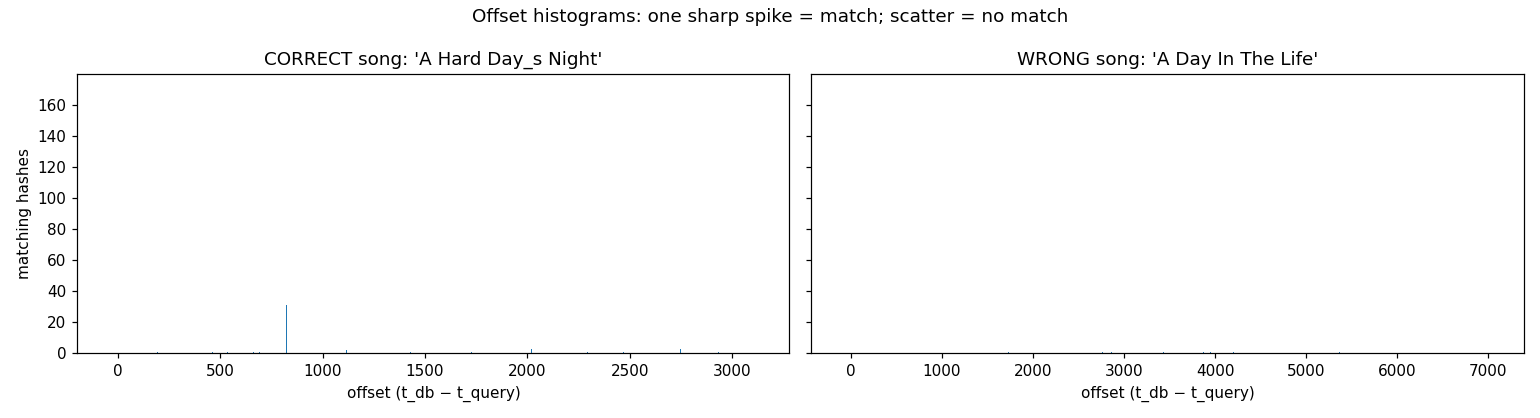
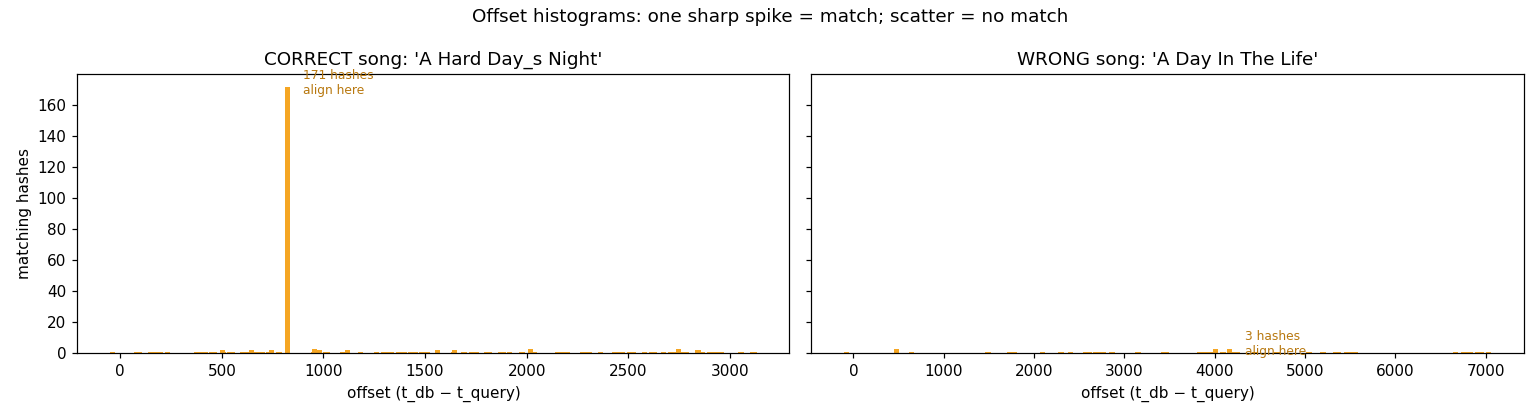
Fix notebook + web-app issues: clean Q2 find_onset cell, suppress Q3A tqdm warning, make offset-histogram alignment spike clearly visible

diff --git a/src/build_q2.py b/src/build_q2.py
@@ -204,19 +204,27 @@ Fix: an anti-alias low-pass filter (cutoff ~25 Hz) before downsampling; the
 unavoidable cost is losing genuine fine QRS diagnostic detail.
 
 ## (g) Prototyping the detector — `find_onset`  [1.5%]
-Implemented in `src/q2_ecg.py`; it steps **beat-by-beat** (stride = `len(template)`),
-scores each beat by normalized correlation, and returns the first index with
-$\rho<$ threshold (else $-1$).
+Implemented in `src/q2_ecg.py` and imported here. It steps **beat-by-beat**
+(stride = `len(template)` = 200), scores each beat by normalized correlation, and
+returns the start index of the first beat with $\rho<$ threshold, else $-1$:
+
+```python
+def find_onset(ecg_signal, template, threshold=0.5):
+    x, t = np.asarray(ecg_signal), np.asarray(template)
+    L = t.size
+    for m in range(0, x.size - L + 1, L):      # one stride per beat
+        if normalized_correlation(t, x[m:m + L]) < threshold:
+            return m
+    return -1
+```
 """))
 
 cells.append(code(r"""
-import inspect
-print(inspect.getsource(q2.find_onset))
-print("Result on the provided data:", q2.find_onset(ecg, template, 0.5),
-      "(threshold=0.5)  ->  arrhythmia begins at t =", q2.find_onset(ecg, template, 0.5)/fs, "s")
-print("Sanity: threshold above every score returns first beat; impossible threshold returns -1:")
-print("   find_onset(.., threshold=2.0) =", q2.find_onset(ecg, template, 2.0))
-print("   find_onset(.., threshold=-2.0) =", q2.find_onset(ecg, template, -2.0))
+onset = q2.find_onset(ecg, template, 0.5)
+print(f"find_onset(ecg, template, 0.5) = {onset}  ->  arrhythmia begins at t = {onset/fs:.2f} s (beat #{onset//L})")
+print("Sanity checks:")
+print("  threshold=2.0  (above every score) ->", q2.find_onset(ecg, template, 2.0), "(first beat)")
+print("  threshold=-2.0 (impossible)        ->", q2.find_onset(ecg, template, -2.0), "(never breached)")
 """))
 
 cells.append(md(r"""

diff --git a/app/web/server.py b/app/web/server.py
@@ -142,12 +142,21 @@ def render_constellation(t, f, Sdb, peaks):
 def render_histogram(offsets, best_offset):
     fig, ax = plt.subplots(figsize=(8.4, 3.0)); fig.patch.set_facecolor(BG); _style_ax(ax)
     if offsets:
-        ks = list(offsets.keys()); vs = list(offsets.values())
-        ax.bar(ks, vs, width=1.4, color=ORANGE)
-        ax.annotate(f"{offsets[best_offset]} hashes align",
-                    xy=(best_offset, offsets[best_offset]), color=ORANGE, fontsize=9,
-                    xytext=(10, -6), textcoords="offset points")
-    ax.set_xlabel("time offset (db frame - query frame)"); ax.set_ylabel("# hashes")
+        ks = np.array(list(offsets.keys()), dtype=float)
+        vs = np.array(list(offsets.values()), dtype=float)
+        # Offsets span thousands of frames; widen the bars (~range/140) so the
+        # single-offset alignment spike is clearly visible, not a 1-px sliver.
+        rng = max(1.0, ks.max() - ks.min())
+        ax.bar(ks, vs, width=max(2.0, rng / 140), color=ORANGE)
+        peak = offsets[best_offset]
+        ax.annotate(f"{peak} hashes align here", xy=(best_offset, peak),
+                    xytext=(12, -2), textcoords="offset points", color=ORANGE, fontsize=9)
+        ax.text(0.97, 0.12, "chance matches\n(noise floor)", transform=ax.transAxes,
+                ha="right", va="center", color="#7a8aa0", fontsize=8)
+        ax.set_ylim(0, peak * 1.18)
+        pad = rng * 0.05
+        ax.set_xlim(ks.min() - pad, ks.max() + pad)
+    ax.set_xlabel("time offset (database frame - query frame)"); ax.set_ylabel("# hashes")
     return _fig_to_uri(fig)
 
 

diff --git a/src/build_q3a.py b/src/build_q3a.py
@@ -23,7 +23,8 @@ combinatorial `(f1,f2,Δt)` hashes → time-offset histogram matching. Engine in
 """))
 
 cells.append(code(r"""
-import os, sys
+import os, sys, warnings
+warnings.filterwarnings("ignore")  # silence cosmetic library notices (e.g. tqdm IProgress)
 sys.path.insert(0, os.path.abspath(os.path.join("..", "src")))
 import numpy as np
 import matplotlib.pyplot as plt
@@ -126,12 +127,19 @@ best, score, conf, results = fp.identify(qh, db)
 print(f"Query taken from '{truth}'  ->  predicted '{best}'  (score={score}, confidence={conf:.2f}x)")
 
 # Offset histogram: winner vs a wrong song.
+# Offsets span thousands of frames, so widen the bars (~range/120) to make the
+# single-frame alignment spike clearly visible instead of a 1-px sliver.
 wrong = next(s for s in db.songs if s != best)
 fig, ax = plt.subplots(1, 2, figsize=(14, 3.8), sharey=True)
 for a, song, ttl in [(ax[0], best, "CORRECT song"), (ax[1], wrong, "WRONG song")]:
     if song in results:
         offs = results[song][2]
-        a.bar(list(offs.keys()), list(offs.values()), width=1.0)
+        ks = np.array(list(offs.keys())); vs = np.array(list(offs.values()))
+        rng = max(1, ks.max() - ks.min())
+        a.bar(ks, vs, width=max(2.0, rng / 120), color="#f5a623")
+        pk = ks[vs.argmax()]
+        a.annotate(f"{vs.max()} hashes\nalign here", xy=(pk, vs.max()),
+                   xytext=(10, -4), textcoords="offset points", fontsize=8, color="#b8780f")
     a.set_title(f"{ttl}: '{song}'"); a.set_xlabel("offset (t_db − t_query)")
 ax[0].set_ylabel("matching hashes")
 plt.suptitle("Offset histograms: one sharp spike = match; scatter = no match")